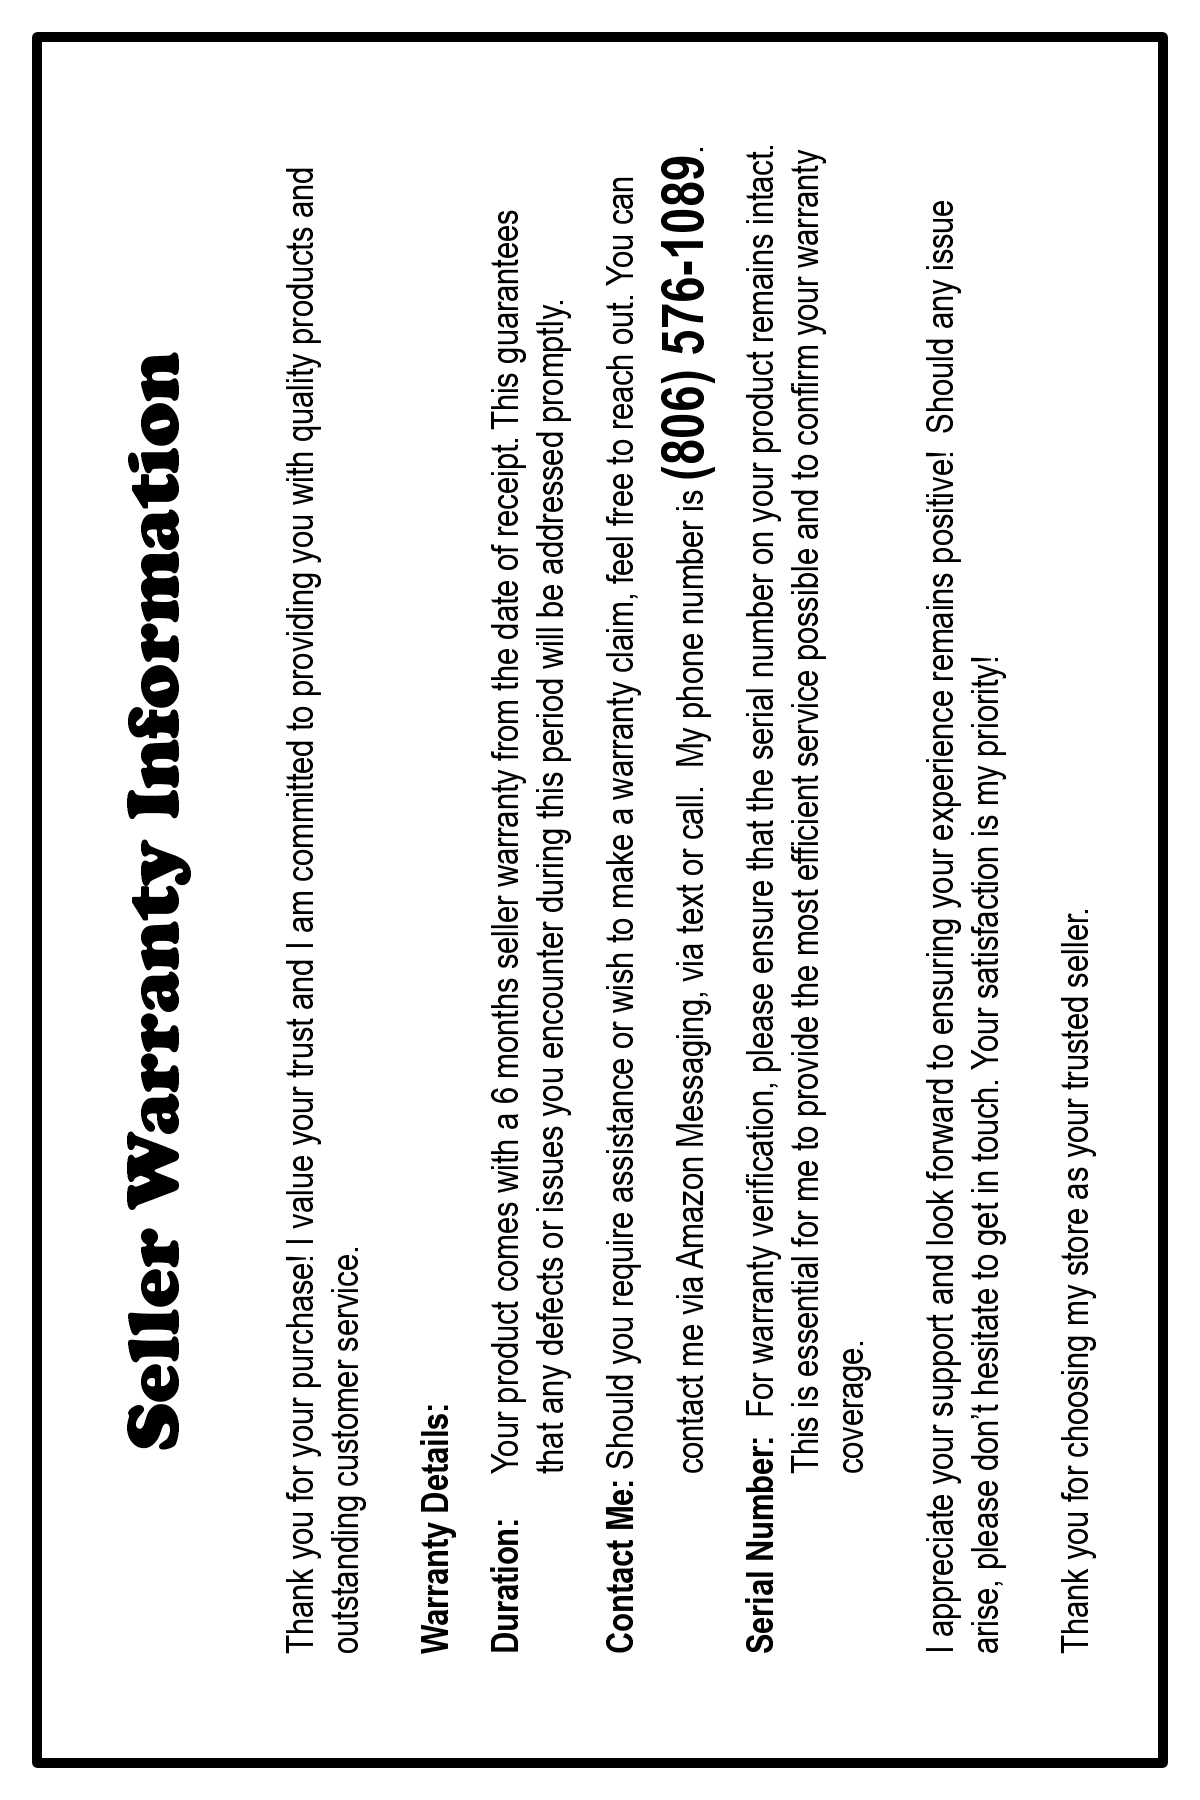
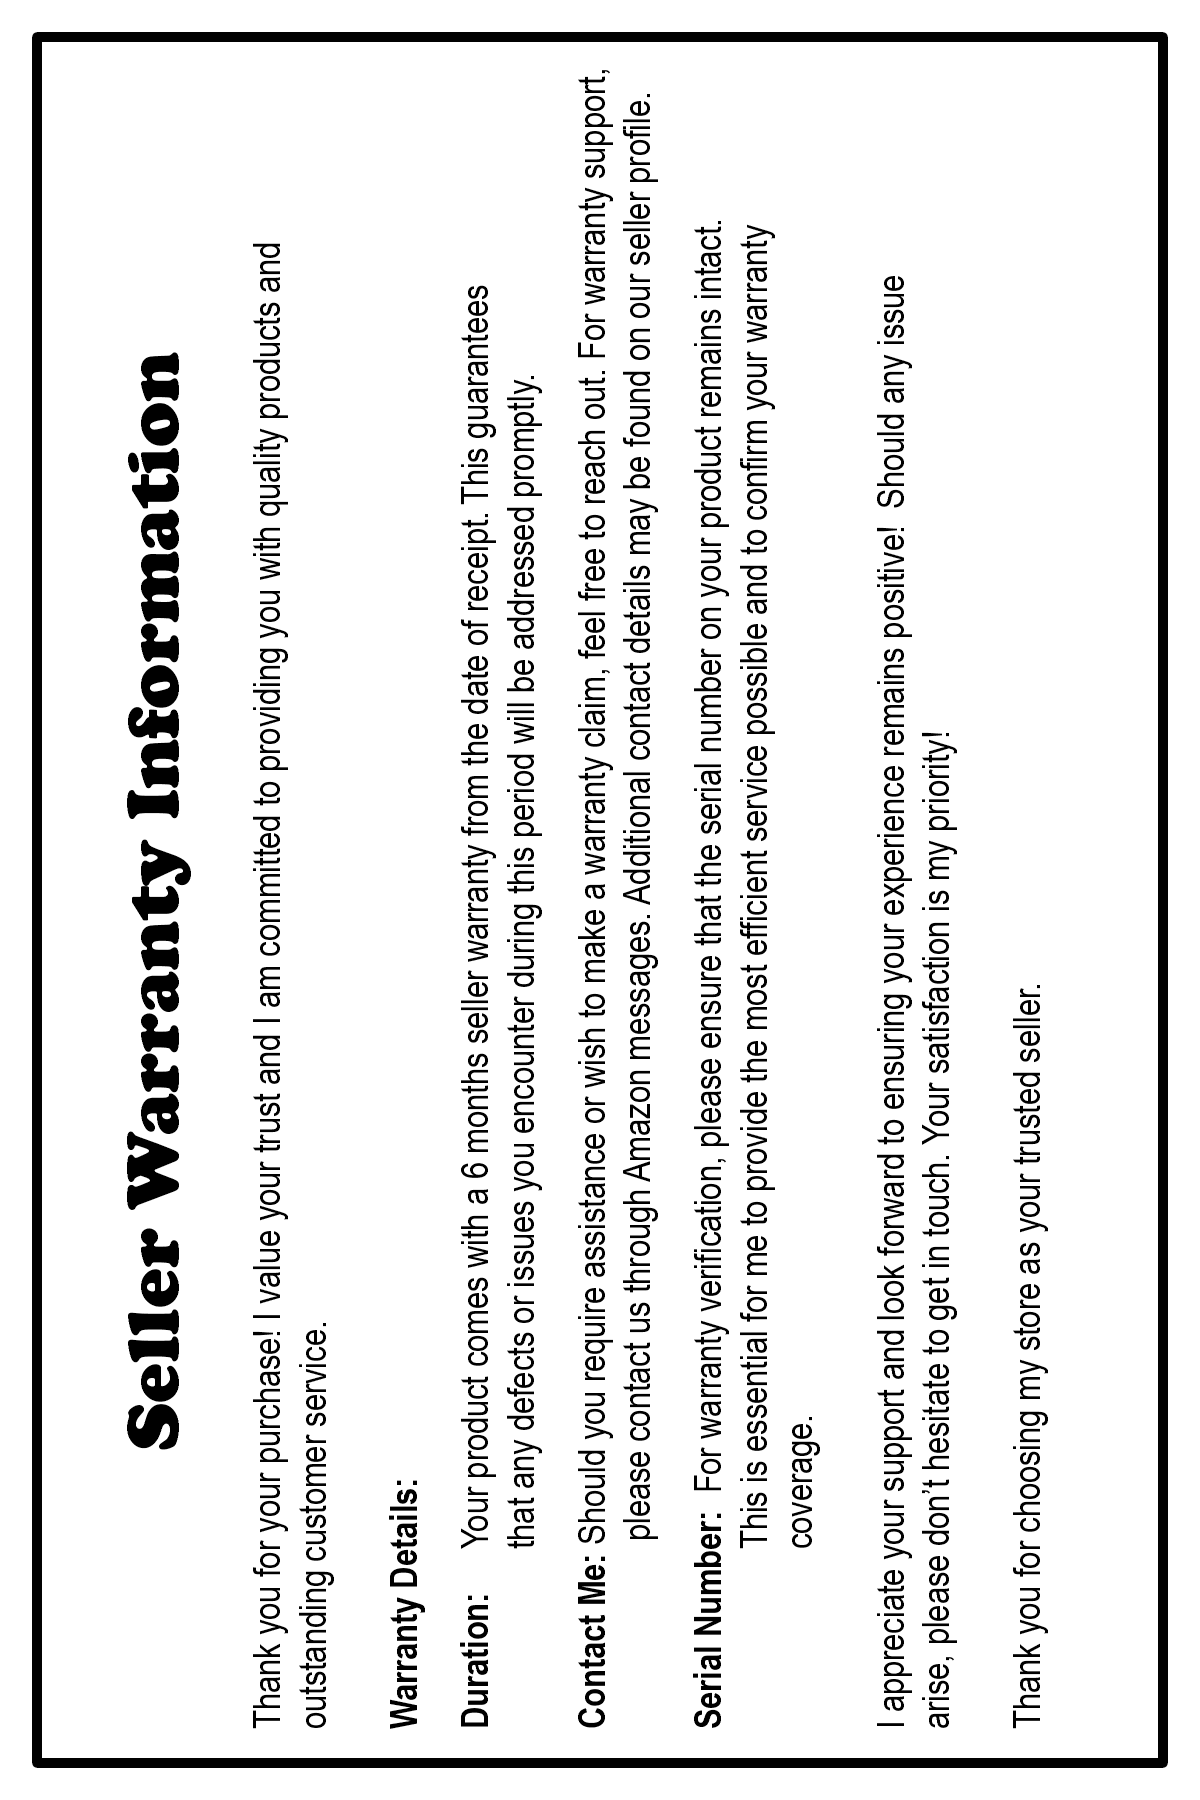
TEst

Changed region(s): [[0.2158, 0.0311, 0.925, 0.9644]]

diff --git a/resources/js/page/returnScanner/returnscanner.vue b/resources/js/page/returnScanner/returnscanner.vue
@@ -73,7 +73,12 @@
                     </div>
 
                     <!-- Info card shown when Return ID is found -->
-                  <div v-if="returnIdValidated && returnIdInfo" class="return-id-info-card">
+                <div v-if="returnIdValidated && returnIdInfo" class="return-id-info-card">
+
+                        <!-- Collapse toggle sits in the top-right corner of the card -->
+                        <button type="button" class="card-collapse-btn" @click="showReturnIdInfoCard = !showReturnIdInfoCard" :title="showReturnIdInfoCard ? 'Hide details' : 'Show details'">
+                            <i :class="['fas', showReturnIdInfoCard ? 'fa-minus' : 'fa-plus']"></i>
+                        </button>
 
                         <!-- FBA badge -->
                         <div v-if="returnType === 'FBA'" class="return-id-type-badge fba-badge">
@@ -84,54 +89,43 @@
                             <i class="fas fa-box"></i> FBM Return
                         </div>
 
-                        <!-- Buyer (FBM only — FBA has no buyer name) -->
-                        <div v-if="returnIdInfo.buyerName" class="return-id-info-row">
-                            <i class="fas fa-user"></i>
-                            <span><strong>Buyer:</strong> {{ returnIdInfo.buyerName }}</span>
-                        </div>
-
-                        <!-- Item name -->
-                        <div v-if="returnIdInfo.itemName" class="return-id-info-row">
-                            <i class="fas fa-box"></i>
-                            <span><strong>Item:</strong> {{ returnIdInfo.itemName }}</span>
-                        </div>
-
-                        <!-- Shipped serial (FBM only) -->
-                        <div v-if="returnIdInfo.shippedSerial" class="return-id-info-row">
-                            <i class="fas fa-barcode"></i>
-                            <span>
-                                <strong>Shipped Serial:</strong>
-                                <code class="shipped-serial-badge">{{ returnIdInfo.shippedSerial }}</code>
-                            </span>
-                        </div>
-
-                        <!-- FBA: no shipped serial — show note instead -->
-                        <div v-else-if="returnType === 'FBA'" class="return-id-info-row return-id-fba-note">
-                            <i class="fas fa-info-circle"></i>
-                            <span>Amazon fulfilled — shipped serial unknown. Any unrecognised serial will be flagged as switcheru.</span>
-                        </div>
-
-                        <!-- ASIN -->
-                        <div v-if="returnIdInfo.asin" class="return-id-info-row">
-                            <i class="fas fa-tag"></i>
-                            <span><strong>ASIN:</strong> {{ returnIdInfo.asin }}</span>
-                        </div>
-
-                        <!-- Return reason -->
-                        <div v-if="returnIdInfo.returnReason" class="return-id-info-row">
-                            <i class="fas fa-exclamation-circle"></i>
-                            <span><strong>Reason:</strong> {{ returnIdInfo.returnReason }}</span>
-                        </div>
-
-                        <!-- FBM: tracking used to look up, show canonical RMA -->
-                        <div v-if="returnType === 'FBM' && returnIdInfo.trackingId && returnIdInfo.trackingId !== canonicalReturnId"
-                            class="return-id-info-row">
-                            <i class="fas fa-truck"></i>
-                            <span>
-                                <strong>Tracking:</strong> {{ returnIdInfo.trackingId }}
-                                <em style="font-size:11px;color:#888;"> → RMA: {{ canonicalReturnId }}</em>
-                            </span>
-                        </div>
+                        <!-- Collapsible rows -->
+                        <template v-if="showReturnIdInfoCard">
+                            <div v-if="returnIdInfo.buyerName" class="return-id-info-row">
+                                <i class="fas fa-user"></i>
+                                <span><strong>Buyer:</strong> {{ returnIdInfo.buyerName }}</span>
+                            </div>
+                            <div v-if="returnIdInfo.itemName" class="return-id-info-row">
+                                <i class="fas fa-box"></i>
+                                <span><strong>Item:</strong> {{ returnIdInfo.itemName }}</span>
+                            </div>
+                            <div v-if="returnIdInfo.shippedSerial" class="return-id-info-row">
+                                <i class="fas fa-barcode"></i>
+                                <span>
+                                    <strong>Shipped Serial:</strong>
+                                    <code class="shipped-serial-badge">{{ returnIdInfo.shippedSerial }}</code>
+                                </span>
+                            </div>
+                            <div v-else-if="returnType === 'FBA'" class="return-id-info-row return-id-fba-note">
+                                <i class="fas fa-info-circle"></i>
+                                <span>Amazon fulfilled — shipped serial unknown. Any unrecognised serial will be flagged as switcheru.</span>
+                            </div>
+                            <div v-if="returnIdInfo.asin" class="return-id-info-row">
+                                <i class="fas fa-tag"></i>
+                                <span><strong>ASIN:</strong> {{ returnIdInfo.asin }}</span>
+                            </div>
+                            <div v-if="returnIdInfo.returnReason" class="return-id-info-row">
+                                <i class="fas fa-exclamation-circle"></i>
+                                <span><strong>Reason:</strong> {{ returnIdInfo.returnReason }}</span>
+                            </div>
+                            <div v-if="returnType === 'FBM' && returnIdInfo.trackingId && returnIdInfo.trackingId !== canonicalReturnId" class="return-id-info-row">
+                                <i class="fas fa-truck"></i>
+                                <span>
+                                    <strong>Tracking:</strong> {{ returnIdInfo.trackingId }}
+                                    <em style="font-size:11px;color:#888;"> → RMA: {{ canonicalReturnId }}</em>
+                                </span>
+                            </div>
+                        </template>
                     </div>
 
                     <!-- Warning when Return ID not found -->
@@ -273,8 +267,13 @@
 
                     <!-- Serials Summary -->
                     <div class="serials-summary" v-if="getActiveSerials().length > 0">
-                        <strong>Serials to return ({{ getActiveSerials().length }}):</strong>
-                        <div class="serial-chips">
+                        <strong>
+                            Serials to return ({{ getActiveSerials().length }}):
+                            <button type="button" class="card-collapse-btn summary-collapse-btn" @click="showSerialsSummary = !showSerialsSummary" :title="showSerialsSummary ? 'Hide' : 'Show'">
+                                <i :class="['fas', showSerialsSummary ? 'fa-minus' : 'fa-plus']"></i>
+                            </button>
+                        </strong>
+                        <div class="serial-chips" v-if="showSerialsSummary">
                             <span class="serial-chip" v-for="s in getActiveSerials()" :key="s">{{ s }}</span>
                         </div>
                     </div>

diff --git a/resources/js/page/returnScanner/returnscanner.js b/resources/js/page/returnScanner/returnscanner.js
@@ -124,6 +124,9 @@ export default {
             rememberedPrinterId: null,
             singlePrinters: [],
             marriedPrinterGroups: [],
+
+            showReturnIdInfoCard: true,
+            showSerialsSummary: true,
         
         };
     },
@@ -983,14 +986,16 @@ async processScan() {
     };
 
     // ── SHOW PRINT MODAL FIRST ───────────────────────────────
-  this.pendingReturnPrintInfo = {
-    serial:       this.serialNumber,
-    returnId:     this.returnId || null,
-    returnReason: this.returnIdInfo?.returnReason
-               || this.returnIdInfo?.return_reason_code
-               || 'No reason provided',
-    buyerName:    this.returnIdInfo?.buyerName || null,
-    location:     this.locationInput || 'L800G',
+this.pendingReturnPrintInfo = {
+    serial:           this.serialNumber,
+    returnId:         this.returnId || null,
+    returnReason:     this.returnType === 'FBA'
+                        ? (this.returnIdInfo?.customerComments || 'No comments provided')
+                        : (this.returnIdInfo?.returnReason || 'No reason provided'),
+    buyerName:        this.returnIdInfo?.buyerName || null,
+    location:         this.locationInput || 'L800G',
+    returnType:       this.returnType ?? null,                      // ← SNAPSHOT
+    customerComments: this.returnIdInfo?.customerComments ?? null,  // ← SNAPSHOT
 };
     await this.loadReturnPrinters();
 
@@ -1166,10 +1171,12 @@ async onReturnReasonPrint({ printerId, done }) {
         const response = await axios.post(
             `${API_BASE_URL}/api/printer/print-return-reason`,
             {
-                serial:        info.serial,
-                return_reason: info.returnReason,
-                printer_id:    primaryPrinterId,
-                location:      info.location || 'L800G',
+                serial:            info.serial,
+                return_reason:     info.returnReason,
+                printer_id:        primaryPrinterId,
+                location:          info.location || 'L800G',
+                return_type:       info.returnType       ?? null,  // ← from info
+                customer_comments: info.customerComments ?? null,  // ← from info
             },
             {
                 withCredentials: true,

diff --git a/resources/js/page/returnScanner/returnscanner.css b/resources/js/page/returnScanner/returnscanner.css
@@ -236,3 +236,46 @@
     color: #7a6000;
     margin-top: 4px;
 }
+
+.card-collapse-btn {
+    position: absolute;
+    top: 8px;
+    right: 8px;
+    width: 20px;
+    height: 20px;
+    border-radius: 50%;
+    border: 1px solid rgba(0,0,0,0.15);
+    background: rgba(255,255,255,0.7);
+    color: #555;
+    font-size: 10px;
+    cursor: pointer;
+    display: flex;
+    align-items: center;
+    justify-content: center;
+    padding: 0;
+    line-height: 1;
+    transition: background 0.15s, transform 0.15s;
+}
+.card-collapse-btn:hover {
+    background: rgba(255,255,255,1);
+    transform: scale(1.15);
+}
+
+/* Make parent cards position:relative so the button anchors correctly */
+.return-id-info-card {
+    position: relative;
+}
+.return-id-warn-card {
+    position: relative;
+}
+
+/* Summary toggle sits inline next to the label */
+.summary-collapse-btn {
+    position: static;          /* override absolute */
+    display: inline-flex;
+    vertical-align: middle;
+    margin-left: 6px;
+    width: 18px;
+    height: 18px;
+    font-size: 9px;
+}

diff --git a/app/Services/PrintLabelService.php b/app/Services/PrintLabelService.php
@@ -1865,26 +1865,32 @@ class PrintLabelService extends BasetablesController
     }
 
 public function printReturnReasonLabel(
-    string $serial,
+    string  $serial,
     ?string $returnId,
     ?string $returnReason,
     ?string $buyerName,
     string  $location,
-    object  $selectedPrinter
+    object  $selectedPrinter,
+    ?string $returnType         = null,   // ← ADD
+    ?string $customerComments   = null    // ← ADD
 ): array {
     try {
+        // FBA → print customer_comments (fallback to reason); FBM → print reason
+        $labelText = ($returnType === 'FBA')
+            ? ($customerComments ?: $returnReason ?: 'No Comments Provided')
+            : ($returnReason ?: 'No Reason Provided');
+
         Log::info('Printing return reason label', [
-            'serial'       => $serial,
-            'return_reason'=> $returnReason,
-            'printer'      => $selectedPrinter->printername ?? 'unknown',
-            'printer_ip'   => $selectedPrinter->printerip   ?? 'unknown',
-            'printer_type' => $selectedPrinter->printer_type ?? 'unknown',
+            'serial'           => $serial,
+            'return_type'      => $returnType,
+            'return_reason'    => $returnReason,
+            'customer_comments'=> $customerComments,
+            'label_text'       => $labelText,
+            'printer'          => $selectedPrinter->printername ?? 'unknown',
+            'printer_ip'       => $selectedPrinter->printerip   ?? 'unknown',
         ]);
 
-        // ✅ Only pass returnReason — matches the method signature below
-        $zpl = $this->generateReturnReasonZpl($returnReason ?? 'No Reason Provided');
-
-        // ✅ Use selected printer IP — NOT the default large printer
+        $zpl    = $this->generateReturnReasonZpl($labelText);
         $result = $this->sendToPrinter($zpl, $selectedPrinter->printerip);
 
         if ($result['status'] === 'success') {
@@ -1924,29 +1930,38 @@ public function printReturnReasonLabel(
     }
 }
 
-
 /**
  * Generate ZPL for the Return Reason label.
+ * Small label: 2.25" x 1.25" @ 203dpi = 456 x 254 dots
+ *
+ * Handles newlines in customer_comments by replacing them with
+ * a space so ZPL ^FB word-wrap takes over cleanly.
  */
-// Small label: 2.25" x 1.25" @ 203dpi = 456 x 254 dots
 private function generateReturnReasonZpl(string $returnReason): string
 {
-    $safe = mb_substr(
-        str_replace(['^', '~', '\\'], ' ', $returnReason ?: 'No Reason Provided'),
-        0, 80
-    );
+    $clean = str_replace(['^', '~', '\\'], ' ', $returnReason ?: 'No Reason Provided');
+
+    // Normalise all newline variants → single space so ^FB handles wrapping
+    $clean = preg_replace('/\r\n|\r|\n/', ' ', $clean);
+
+    // Collapse multiple spaces
+    $clean = preg_replace('/\s{2,}/', ' ', $clean);
+
+    // Limit to 160 chars (4 lines × ~40 chars)
+    $safe = mb_substr(trim($clean), 0, 160);
 
     $zpl  = '^XA';
     $zpl .= '^MMT';
     $zpl .= '^PW456';
-    $zpl .= '^LL0400';   // taller label to give more vertical room
+    $zpl .= '^LL0400';
 
-    // Header bar — moved down
+    // Header bar
     $zpl .= '^FO0,60^GB456,40,40^FS';
     $zpl .= '^FO5,68^FR^A0N,22,20^FDRETURN REASON^FS';
 
-    // Reason text — moved down
-    $zpl .= '^FO10,115^FB436,4,2,L,0^A0N,32,28^FD' . $safe . '^FS';
+    // Reason text — ^FB(width, maxLines, lineSpacing, justification)
+    // 436 dots wide, up to 4 lines, 4 dot spacing, left-aligned
+    $zpl .= '^FO10,115^FB436,4,4,L,0^A0N,28,24^FD' . $safe . '^FS';
 
     $zpl .= '^XZ';
 

diff --git a/app/Http/Controllers/printer/PrinterController.php b/app/Http/Controllers/printer/PrinterController.php
@@ -1789,11 +1789,15 @@ class PrinterController extends BasetablesController
 //Customer Reason Printing Endpoint
 public function printReturnReason(Request $request)
 {
+    \Illuminate\Support\Facades\Log::info('🖨 printReturnReason received', $request->all());
+    
     $data = $request->validate([
-        'serial'        => 'required|string',
-        'return_reason' => 'nullable|string',
-        'printer_id'    => 'required|integer',
-        'location'      => 'nullable|string',
+        'serial'            => 'required|string',
+        'return_reason'     => 'nullable|string',
+        'printer_id'        => 'required|integer',
+        'location'          => 'nullable|string',
+        'return_type'       => 'nullable|string|in:FBM,FBA',  // ← ADD
+        'customer_comments' => 'nullable|string',              // ← ADD
     ]);
 
     try {
@@ -1811,14 +1815,15 @@ public function printReturnReason(Request $request)
 
         $printLabelService = new \App\Services\PrintLabelService();
 
-        // ✅ Now correctly calls the service method with printer object
         $result = $printLabelService->printReturnReasonLabel(
-            serial:        $data['serial'],
-            returnId:      null,
-            returnReason:  $data['return_reason'] ?? 'No Reason Provided',
-            buyerName:     null,
-            location:      $data['location'] ?? 'L800G',
-            selectedPrinter: $printer
+            serial:           $data['serial'],
+            returnId:         null,
+            returnReason:     $data['return_reason'] ?? null,
+            buyerName:        null,
+            location:         $data['location'] ?? 'L800G',
+            selectedPrinter:  $printer,
+            returnType:       $data['return_type']       ?? null,  // ← ADD
+            customerComments: $data['customer_comments'] ?? null   // ← ADD
         );
 
         return response()->json([

diff --git a/app/Http/Controllers/ReturnScannerController.php b/app/Http/Controllers/ReturnScannerController.php
@@ -2039,6 +2039,7 @@ class ReturnScannerController extends BasetablesController
                     'amazonOrderId' => $fbaReturn->order_id ?? null,
                     'shippedSerial' => null,
                     'returnReason'  => $fbaReturn->reason ?? null,
+                      'customerComments' => $fbaReturn->customer_comments ?? null,
                     'storeName'     => $fbaReturn->store_name ?? null,
                     'lpn'           => $fbaReturn->license_plate_number ?? null,
                 ],
